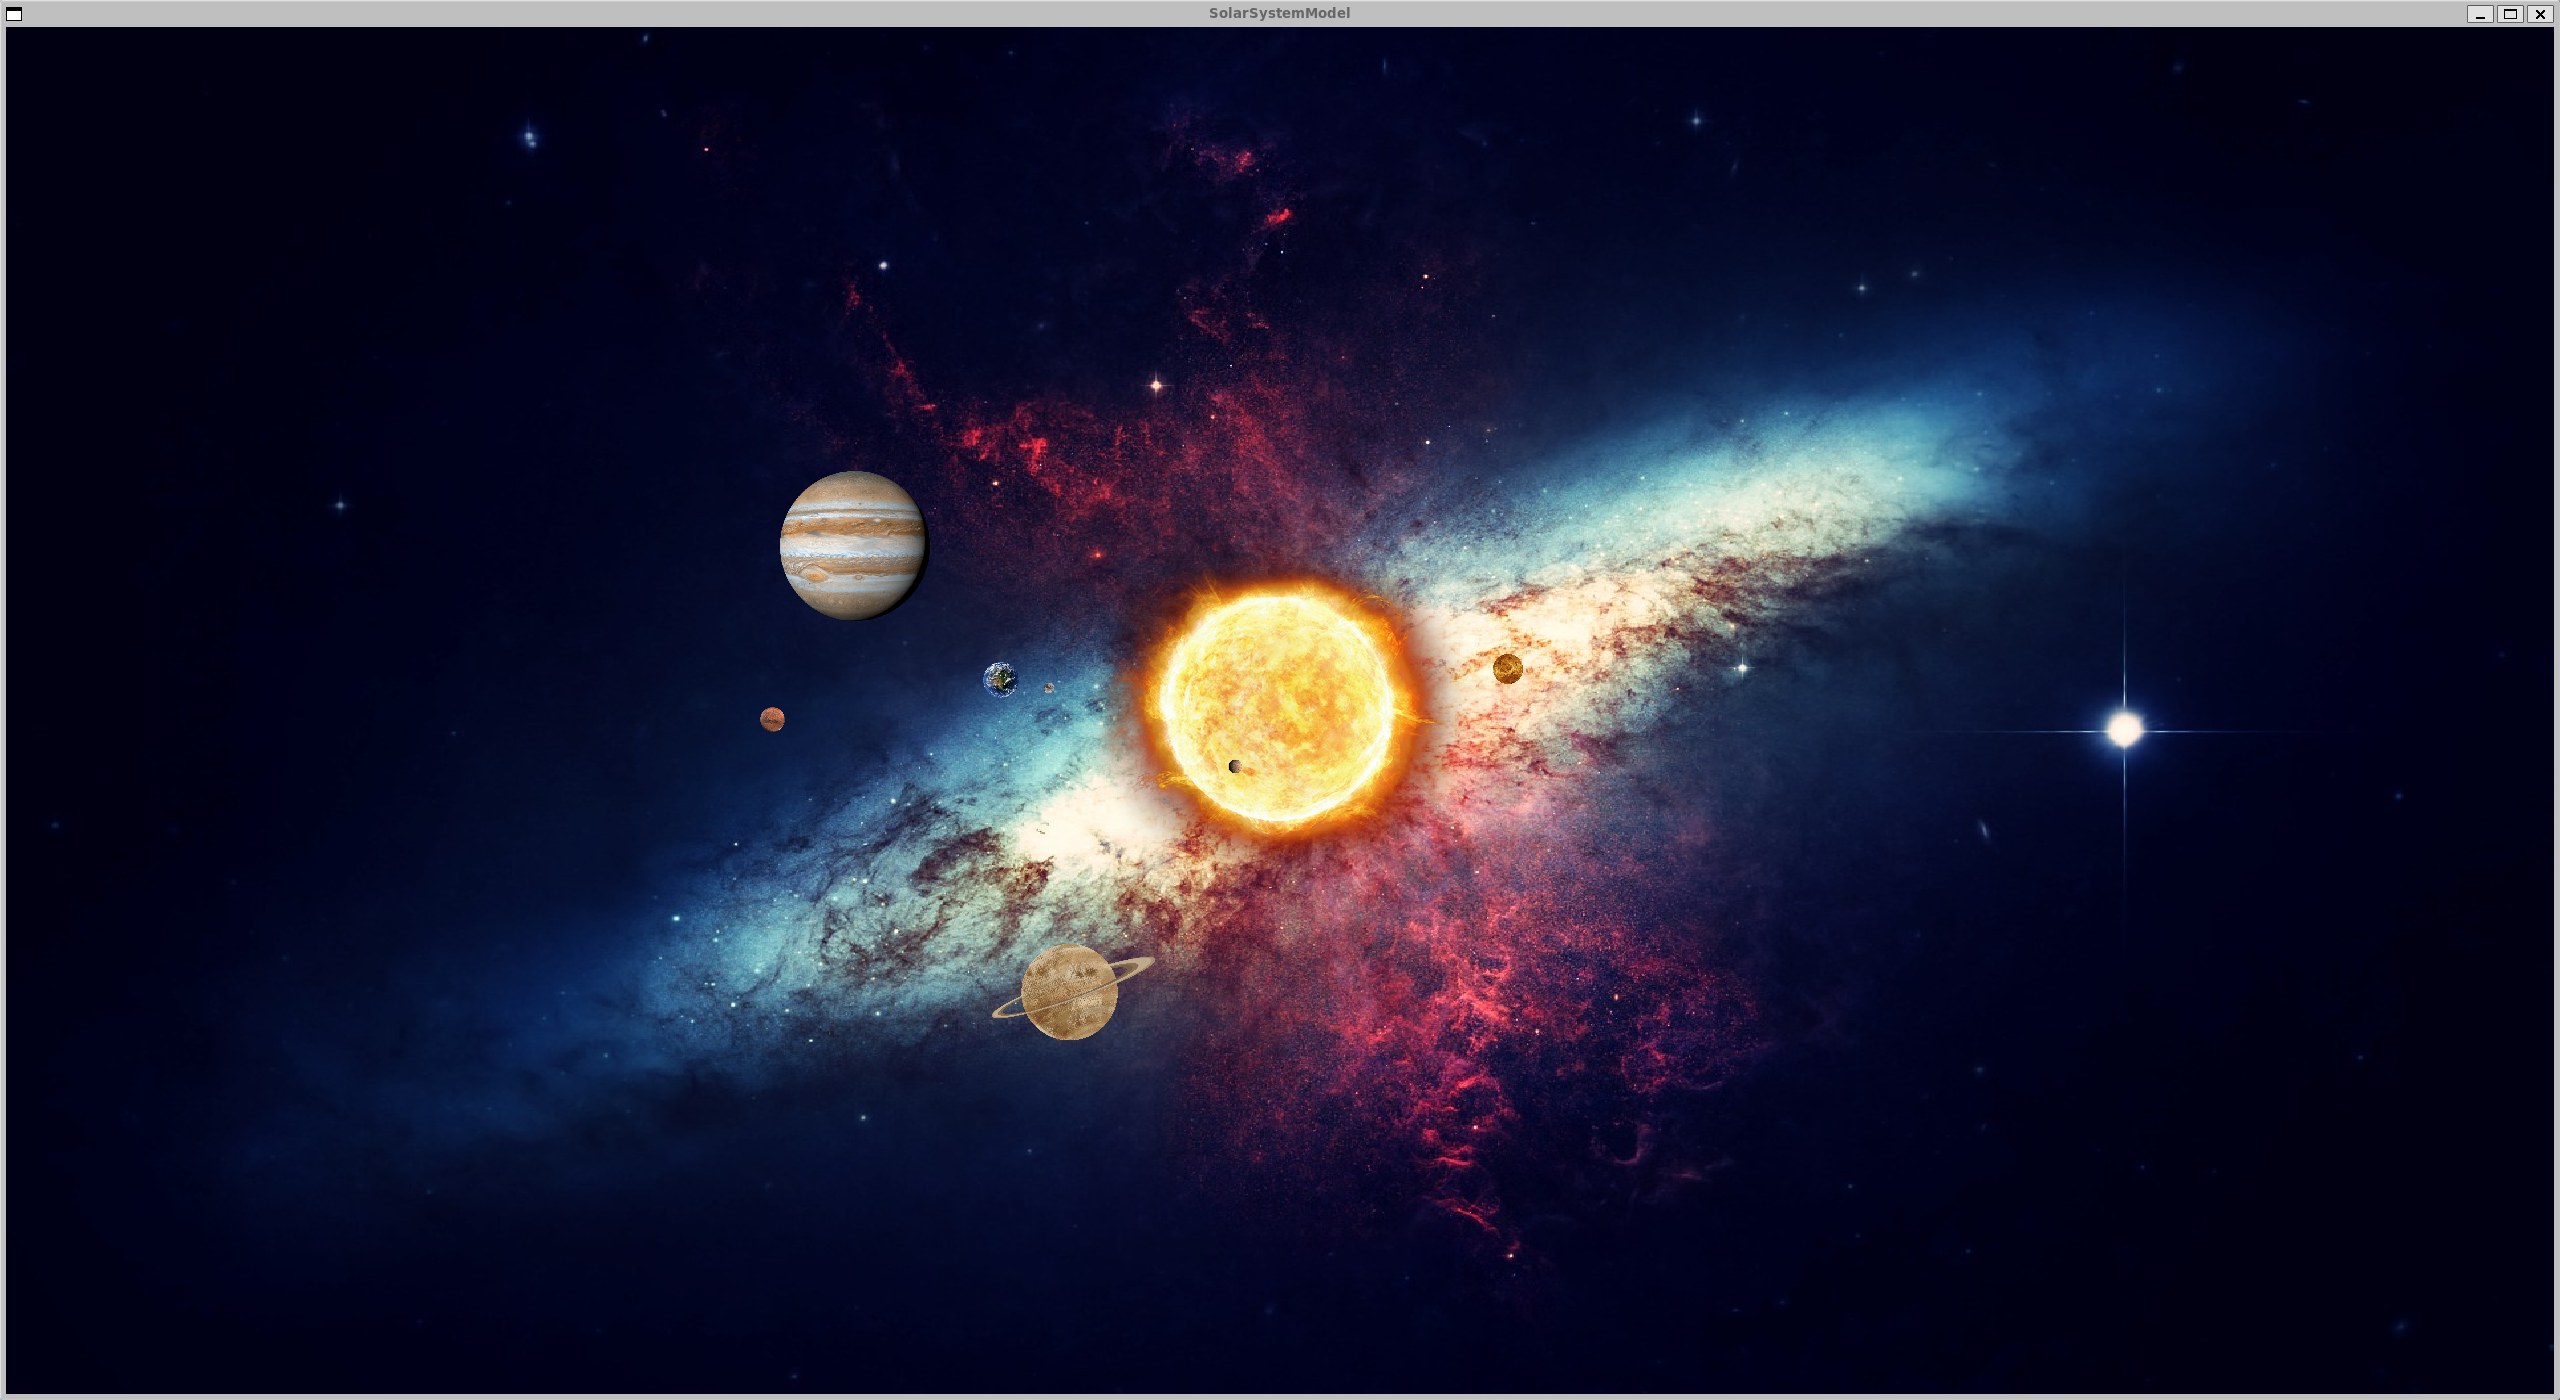
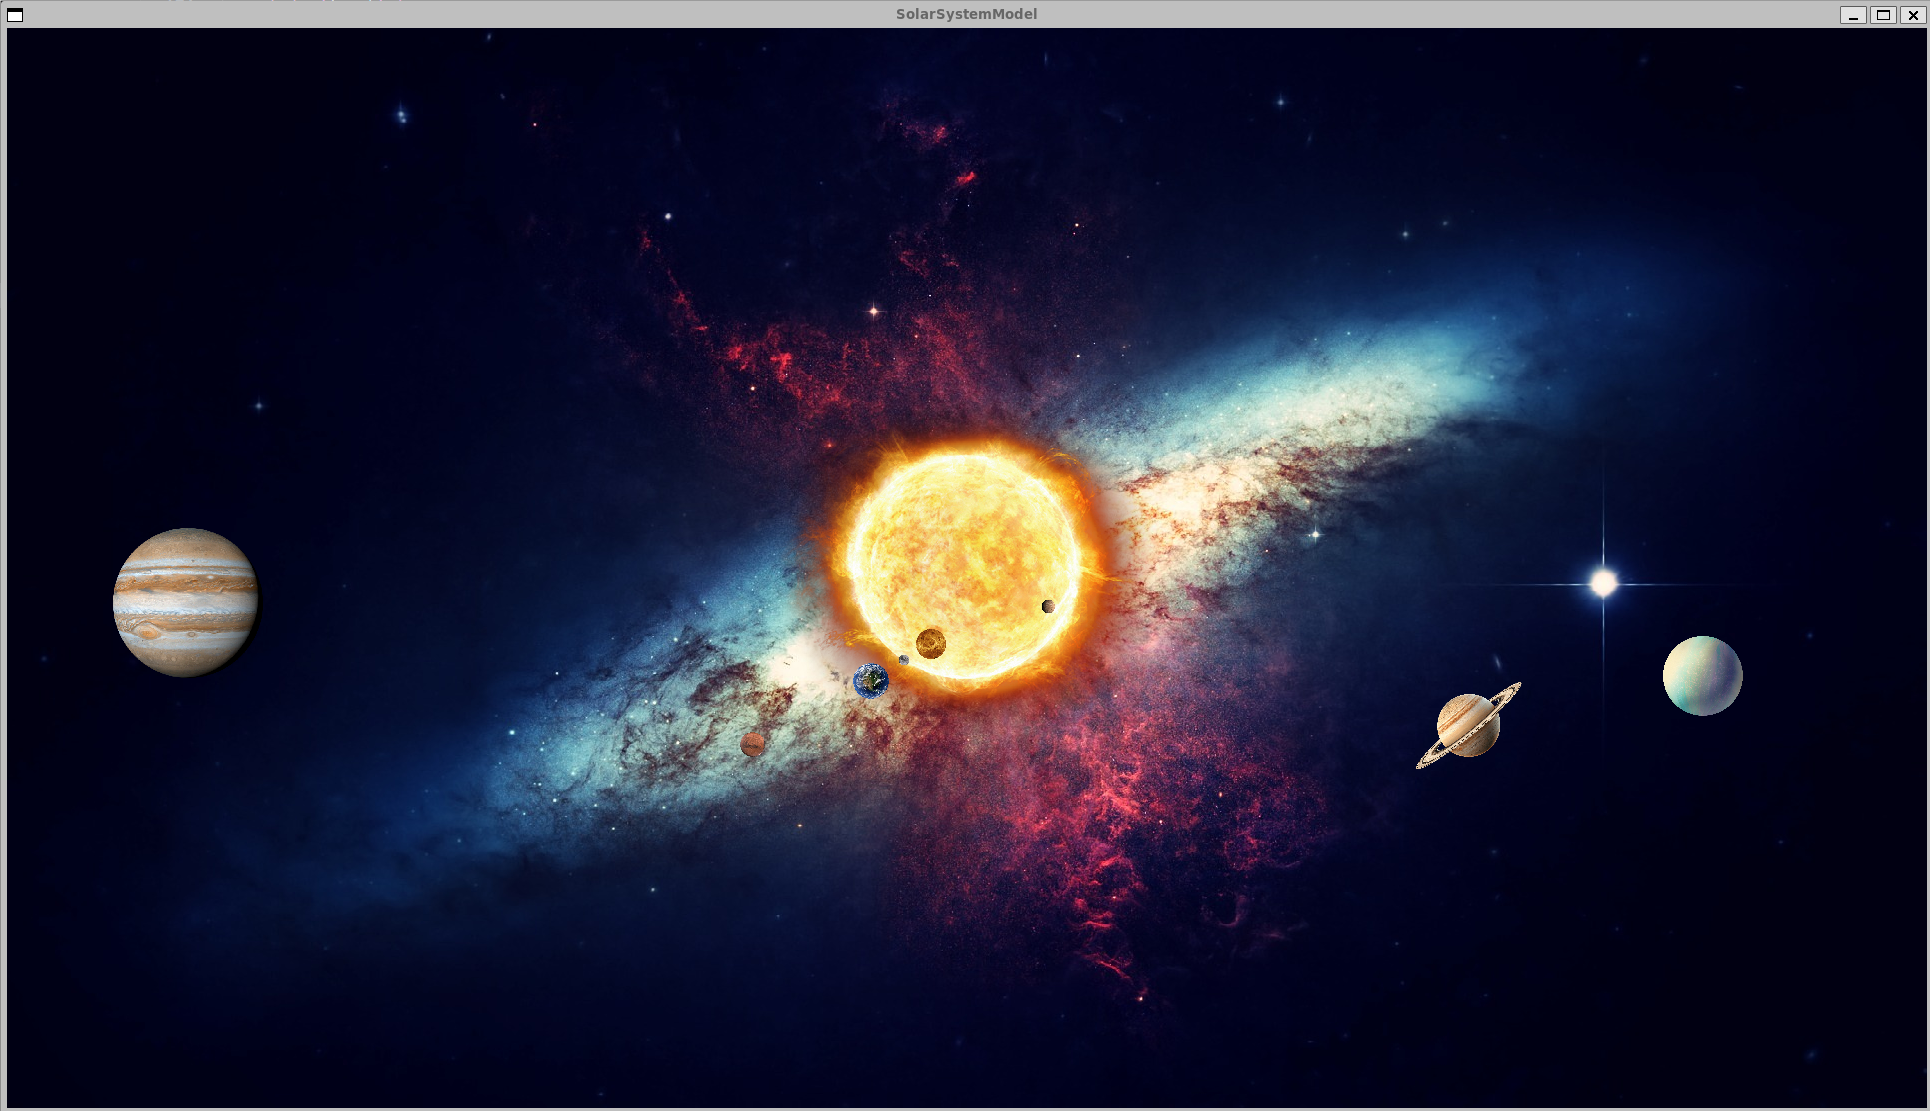
add Uranus & use the fullscreen

diff --git a/src/main.cpp b/src/main.cpp
@@ -12,9 +12,6 @@
 #include <thread>
 #include <vector>
 
-#define SCREEN_WIDTH 1920
-#define SCREEN_HEIGHT 1080
-
 #define MUSIC_PATH "../music/CornfieldChase.wav"
 
 #define COSMOS_PATH "../image/Cosmos.jpg"
@@ -26,6 +23,7 @@
 #define MARS_PATH "../image/Mars.png"
 #define JUPITER_PATH "../image/Jupiter.png"
 #define SATURN_PATH "../image/Saturn.png"
+#define URANUS_PATH "../image/Uranus.png"
 
 using namespace std;
 
@@ -47,8 +45,8 @@ public:
             return;
         }
         angle += angleInc;
-        int y = round(radius * sin(angle / 180 * M_PI) * sqrt(2) / 4);
-        int x = round(radius * cos(angle / 180 * M_PI) - y);
+        int y = round(radius * sin(angle / 180.0 * M_PI) * sqrt(2) / 4.0);
+        int x = round(radius * cos(angle / 180.0 * M_PI) - y);
 
         if (isMoon) {
             // add the earth's coordinate
@@ -104,6 +102,7 @@ bool createObject(SDL_Renderer* renderer, string path, int size, double r, doubl
 
     obj->radius = r;
 
+    srand(time(0));
     obj->angle = rand() % 360;
 
     obj->angleInc = inc;
@@ -121,10 +120,10 @@ void destoryObject() {
 
 bool loadObjects(SDL_Renderer* renderer) {
     return createObject(renderer, COSMOS_PATH, 0, 0, 0) && createObject(renderer, SUN_PATH, 400, 0, 0) &&
-           createObject(renderer, MERCURY_PATH, 15, 160, 1) && createObject(renderer, VENUS_PATH, 30, 220, 0.375) &&
-           createObject(renderer, EARTH_PATH, 36, 320, 0.25) && createObject(renderer, MOON_PATH, 12, 60, 3, true) &&
-           createObject(renderer, MARS_PATH, 25, 500, 0.125) && createObject(renderer, JUPITER_PATH, 150, 750, 0.025) &&
-           createObject(renderer, SATURN_PATH, 180, 800, 0.015);
+           createObject(renderer, MERCURY_PATH, 15, 160, 4) && createObject(renderer, VENUS_PATH, 30, 220, 1.5) &&
+           createObject(renderer, EARTH_PATH, 36, 320, 1) && createObject(renderer, MOON_PATH, 12, 60, 12, true) &&
+           createObject(renderer, MARS_PATH, 25, 500, 0.5) && createObject(renderer, JUPITER_PATH, 150, 750, 0.1) &&
+           createObject(renderer, SATURN_PATH, 120, 800, 0.06) && createObject(renderer, URANUS_PATH, 100, 900, 0.04);
 }
 
 int main() {
@@ -146,8 +145,8 @@ int main() {
     // reduce 50% volume
     Mix_VolumeChunk(sound, 64);
 
-    SDL_Window* window = SDL_CreateWindow("SolarSystemModel", SDL_WINDOWPOS_CENTERED, SDL_WINDOWPOS_CENTERED,
-                                          SCREEN_WIDTH, SCREEN_HEIGHT, 0);
+    SDL_Window* window = SDL_CreateWindow("SolarSystemModel", SDL_WINDOWPOS_CENTERED, SDL_WINDOWPOS_CENTERED, 0, 0,
+                                          SDL_WINDOW_FULLSCREEN);
 
     SDL_Renderer* renderer = SDL_CreateRenderer(window, -1, SDL_RENDERER_ACCELERATED);
 
@@ -186,13 +185,13 @@ int main() {
         SDL_RenderPresent(renderer);
 
         while (SDL_PollEvent(&e) != 0) {
-            if (e.type == SDL_QUIT) {
+            if (e.type == SDL_QUIT || (e.type == SDL_KEYDOWN && e.key.keysym.sym == SDLK_ESCAPE)) {
                 quit = true;
                 break;
             }
         }
 
-        this_thread::sleep_for(chrono::milliseconds(10));
+        this_thread::sleep_for(chrono::milliseconds(60));
     }
 
     clearSDL();

diff --git a/README.md b/README.md
@@ -10,6 +10,8 @@ cd build
 cmake ..
 make
 ~~~
+# Usage
+enter `ESC` to quit
 # Image
 ![](example1.png)
 ![](example2.png)
